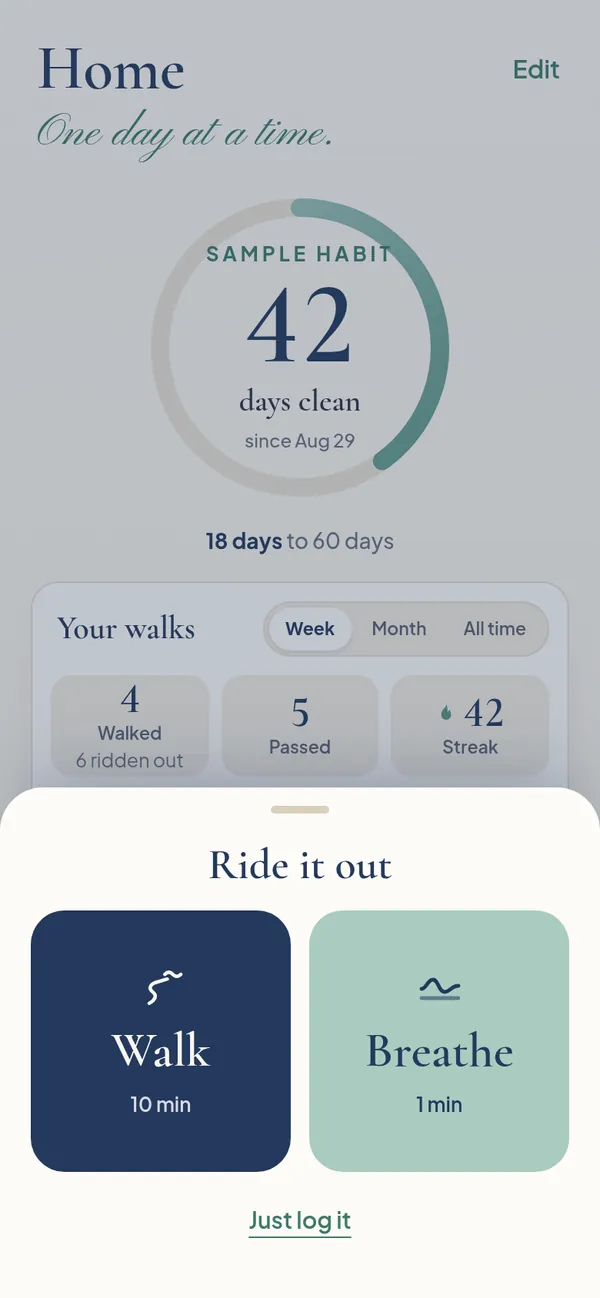
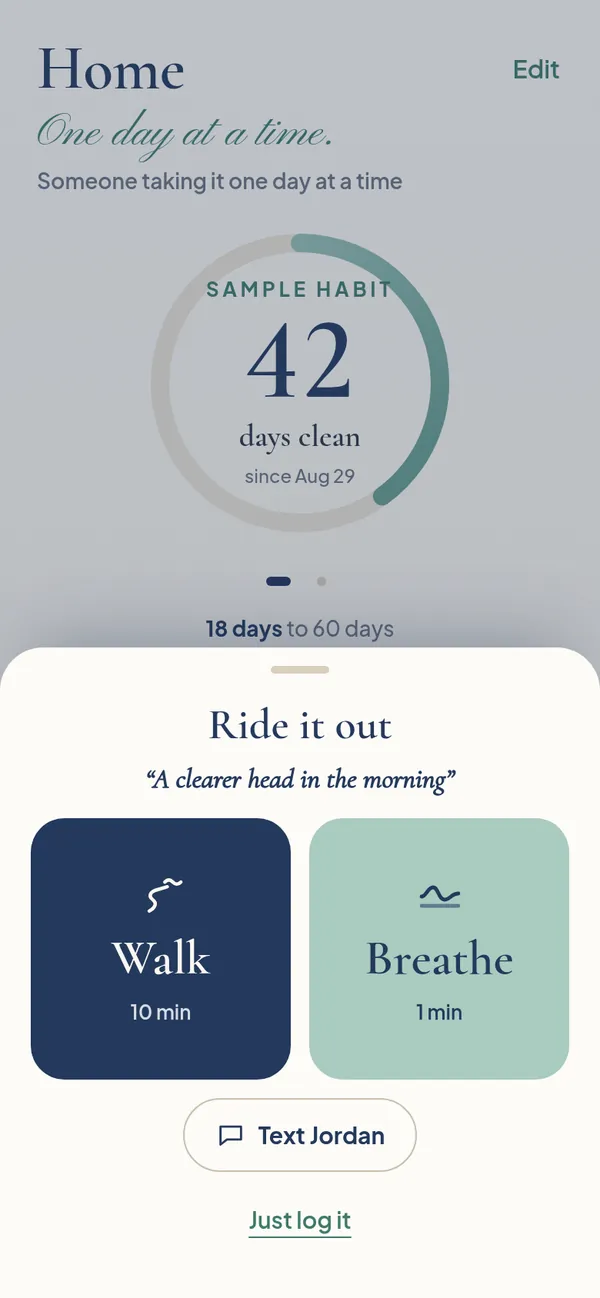
Onboarding section, sample-data screens, privacy/support updated for setup answers and trusted contact

Changed region(s): [[0.0, 0.1233, 1.0, 0.9245]]

diff --git a/privacy.html b/privacy.html
@@ -3,25 +3,28 @@
 <header class="top"><div class="wrap"><a class="brand" href="index.html"><img src="assets/pwa-192x192.png" alt="">Urge Walk</a><nav><a href="index.html#how">How it works</a><a href="support.html">Support</a></nav></div></header>
 <main class="doc">
 <h1>Privacy Policy</h1>
-<p class="meta">Effective date: October 9, 2026</p>
+<p class="meta">Effective date: October 9, 2026 · Last updated: October 13, 2026</p>
 <div class="notice"><strong>The short version:</strong> Urge Walk keeps your information on your device. We don’t collect it, we don’t see it, and we never sell it.</div>
 <h2>What the app stores</h2>
 <p>To work, Urge Walk saves the following <strong>only on your device</strong>:</p>
-<ul><li>The habits you track (a name and a start date)</li><li>Your walks: start and end times, length, how the urge went, and any note you add</li><li>Journal entries and drafts (title, text, mood)</li><li>Milestones you’ve earned and app preferences (such as your usual walk length)</li></ul>
+<ul><li>The habits you track (a name and a start date)</li><li>Journal entries and drafts (title, text, mood)</li><li>Every urge you ride out: walks, one-minute breathing sessions, and quick logs, with times, how it went, and any note</li><li>Milestones you’ve earned and app preferences (such as your usual walk length)</li><li>Your setup answers: that you confirmed you’re 18 or older, how often urges used to come up, what you want to improve, how important this is to you, how you see yourself, and your “why” in your own words</li><li>If you choose “Someone I trust”: that person’s first name and phone number, which you type in yourself</li><li>If you turn it on: an optional estimate of time and money per urge, used for a “Time back” figure</li></ul>
+<p>None of this leaves your phone unless you export a backup yourself.</p>
+<h2>The “Text” button</h2>
+<p>If you add someone you trust, the Ride it out screen shows a “Text &lt;name&gt;” button. Tapping it opens your phone’s own Messages app addressed to that number, with no message filled in. Urge Walk never sends anything by itself, and the name and number are stored only on your device. Urge Walk does not read your contacts list.</p>
 <h2>What we collect</h2>
 <p>Nothing. Urge Walk has no accounts and does not send your data to us or to anyone else. It does not use analytics, advertising, or tracking tools, and it does not access your location, contacts, or health data.</p>
 <h2>Sharing and selling</h2>
 <p>We do not sell, rent, or share your data. We can’t, because we never receive it.</p>
 <h2>Backups</h2>
-<p>You can choose to export a backup file. That file is created on your device and goes wherever you decide to save or share it (for example, Files or iCloud Drive). It includes your journal, so keep it somewhere private. Where you store it is governed by that service’s own privacy policy.</p>
+<p>You can choose to export a backup file. That file is created on your device and goes wherever you decide to save or share it (for example, Files or iCloud Drive). It includes your journal, your setup answers, and your trusted contact’s name and number, so keep it somewhere private. Where you store it is governed by that service’s own privacy policy.</p>
 <h2>Deleting your data</h2>
-<p>You can delete trackers, walks, and journal entries inside the app. Deleting the app removes all of its data from your device. Because we don’t hold a copy, we can’t restore it for you, so export a backup if you want to keep it.</p>
-<h2>Children</h2>
-<p>Urge Walk is not directed at children under 13, and we do not knowingly collect information from anyone.</p>
+<p>You can delete trackers, logged urges, and journal entries inside the app, and change or clear your setup answers (including a trusted contact) in You → Redo setup. Deleting the app removes all of its data from your device. Because we don’t hold a copy, we can’t restore it for you, so export a backup if you want to keep it.</p>
+<h2>Age</h2>
+<p>Urge Walk is for adults 18 and older, and asks you to confirm your age during setup. We do not collect information from anyone.</p>
 <h2>This website</h2>
 <p>This site is hosted on GitHub Pages. It sets no cookies and uses no analytics. GitHub may keep standard server logs (such as IP addresses) for security; see GitHub’s privacy statement.</p>
 <h2>Changes</h2>
-<p>If this policy changes, we’ll update this page and the date above. If the app ever starts collecting data, we’ll say so here before it does.</p>
+<p>If this policy changes, we’ll update this page and the date above. If the app ever starts collecting data, we’ll say so here before it does. In particular, this policy will be updated before Urge Walk adds accounts, Apple Health (HealthKit) or motion data, or optional paid subscriptions.</p>
 <h2>Contact</h2>
 <p>Questions? Email <a href="mailto:dariustatum@mail.grokbot.com">dariustatum@mail.grokbot.com</a>.</p>
 </main>

diff --git a/index.html b/index.html
@@ -29,12 +29,27 @@
 <div class="card"><h3>Clean-day ring</h3><p>Your days clean at a glance, filling toward the next milestone: 7, 30, 60, 90 days, 6 months, 1 year, and every year after. Earned milestones are kept, even after a reset.</p></div>
 <div class="card"><h3>Your log</h3><p>Every urge you rode out, by walk, breath, or quick log, with how it went and a simple view of your week.</p></div>
 <div class="card"><h3>Private journal</h3><p>Write with optional moods and prompts. Drafts save as you type, and your notes from walks and breathing show up alongside.</p></div>
-<div class="card"><h3>Private by design</h3><p>No account, no ads, no tracking. Everything stays on your device, and you can export a backup file whenever you want.</p></div>
+<div class="card"><h3>Private by design</h3><p>No account, no ads, no tracking. Everything stays on your device, and you can export a backup file whenever you want. The core features are free.</p></div>
 </div></div></section>
+
+<section class="onb"><div class="wrap onb-wrap">
+<div><h2 class="left">Made for you, from the start</h2>
+<p class="lead">A short, gentle setup takes a few minutes. Many questions can be skipped, and your answers shape the app.</p>
+<ul class="ticks">
+<li><strong>No account.</strong> Nothing to sign up for. No email, no password.</li>
+<li><strong>Everything stays on your phone.</strong> No ads, no analytics.</li>
+<li><strong>For adults 18+.</strong></li>
+<li><strong>Your “why” where it counts.</strong> The reason you write shows up on the Ride it out sheet when an urge hits.</li>
+<li><strong>Someone you trust, one tap away.</strong> Add a first name and number, and Ride it out shows a “Text” button that opens your Messages app.</li>
+</ul></div>
+<div class="onb-pair"><figure><img loading="lazy" src="assets/shot-ob-privacy-light.webp" width="600" height="1298" alt="Setup screen: Everything stays on this phone. No account, no tracking, your backup is your file, I'm 18 or older"><figcaption>Setup</figcaption></figure>
+<figure><img loading="lazy" src="assets/shot-sheet-light.webp" width="600" height="1298" alt="Ride it out sheet showing a sample why, Walk and Breathe tiles, and a Text Jordan button"><figcaption>Your why and a Text button</figcaption></figure></div>
+<p class="caption onb-cap">Sample data. “Jordan” is a made-up name.</p>
+</div></section>
 
 <section class="alt gallery-sec"><div class="wrap"><h2>A closer look</h2><span class="rule"></span>
 <div class="gallery">
-<figure><img loading="lazy" src="assets/shot-sheet-light.webp" width="600" height="1298" alt="Ride it out sheet with Walk (10 min) and Breathe (1 min) tiles and a Just log it link"><figcaption>Ride it out</figcaption></figure>
+<figure><img loading="lazy" src="assets/shot-ob-welcome-light.webp" width="600" height="1298" alt="Welcome screen: You’re here. That’s the first step."><figcaption>Welcome</figcaption></figure>
 <figure><img loading="lazy" src="assets/shot-breathe-light.webp" width="600" height="1298" alt="Breathe screen with a soft circle and the words Breathe in"><figcaption>Breathe</figcaption></figure>
 <figure><img loading="lazy" src="assets/shot-breathe-done-light.webp" width="600" height="1298" alt="After breathing: Nice. That one passed a little. Did the urge pass?"><figcaption>Check in</figcaption></figure>
 <figure><img loading="lazy" src="assets/shot-log-light.webp" width="600" height="1298" alt="Log tab showing 7 urges ridden out: 4 walks, 2 breathing, 1 logged"><figcaption>Log</figcaption></figure>

diff --git a/support.html b/support.html
@@ -13,6 +13,8 @@
 <details><summary>What if my screen locks during a walk?</summary><p>The timer is based on saved times, so it stays correct if your screen locks or you close the app. Reopening takes you back to your walk.</p></details>
 <details><summary>Does a “didn’t pass” check-in reset my clean days?</summary><p>No. It just records how that one urge went. Your clean-day count only resets if you reset it yourself.</p></details>
 <details><summary>Can I track more than one habit?</summary><p>Yes. Go to You → Trackers to add, edit, reset, or delete trackers and choose which one shows on Home.</p></details>
+<details><summary>Who is Urge Walk for?</summary><p>Adults 18 and older. Setup asks you to confirm your age.</p></details>
+<details><summary>What does the “Text” button do?</summary><p>If you choose “Someone I trust” during setup (or later in You → Redo setup), you type in their first name and number. Ride it out then shows “Text &lt;name&gt;”. Tapping it opens your own Messages app addressed to them, with nothing filled in. The name and number stay on your phone.</p></details>
 <details><summary>Where is my data stored?</summary><p>Only on your device. There’s no account and nothing is sent to a server. See the <a href="privacy.html">Privacy Policy</a>.</p></details>
 <details><summary>How do I back up or move my data?</summary><p>Go to You → Backup &amp; restore to export everything to one file, and restore it later. The file includes your journal, so keep it private.</p></details>
 <details><summary>I found a bug or have an idea.</summary><p>Please email <a href="mailto:dariustatum@mail.grokbot.com">dariustatum@mail.grokbot.com</a>. Feedback shapes what gets built next.</p></details>

diff --git a/style.css b/style.css
@@ -95,3 +95,15 @@ h1,h2,h3{text-wrap:balance}p{text-wrap:pretty}
 .gallery img{width:100%;height:auto;border-radius:26px;border:6px solid #fff;box-shadow:0 20px 40px -26px rgba(20,40,75,.45)}
 .gallery figcaption{font-style:italic;color:var(--muted);margin-top:8px}
 .phone{height:auto}
+.onb-wrap{display:grid;gap:36px;align-items:center}
+@media(min-width:880px){.onb-wrap{grid-template-columns:1fr 1fr}}
+h2.left{text-align:left}
+.ticks{list-style:none;padding:0;margin:24px 0 0}
+.ticks li{padding:10px 0 10px 30px;border-bottom:1px solid var(--line);position:relative;color:var(--muted)}
+.ticks li strong{color:var(--navy);font-weight:600}
+.ticks li::before{content:"";position:absolute;left:4px;top:22px;width:12px;height:2px;background:var(--sea-d)}
+.onb-pair{display:flex;gap:16px;justify-content:center}
+.onb-pair figure{margin:0;flex:0 1 220px;text-align:center}
+.onb-pair img{width:100%;height:auto;border-radius:24px;border:6px solid #fff;box-shadow:0 20px 40px -26px rgba(20,40,75,.45)}
+.onb-pair figcaption{font-style:italic;color:var(--muted);margin-top:8px;font-size:.9rem}
+.onb-cap{grid-column:1/-1;margin:0}
